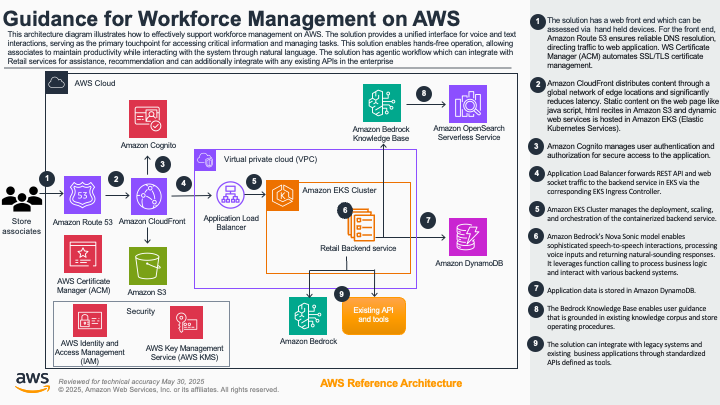
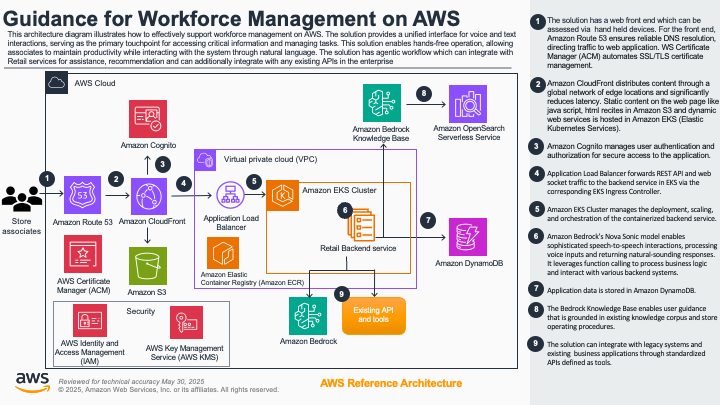
small changes in readme and arch diagram

Changed region(s): [[0.275, 0.563, 0.4278, 0.7111]]

diff --git a/README.md b/README.md
@@ -56,7 +56,7 @@ The architecture is organized into several logical stacks:
 
 ### Cost
 
-You are responsible for the cost of the AWS services used while running this Guidance. As of May 2025, the cost for running this Guidance with the default settings in the AWS Region US East 1 (N. Virginia) is approximately $<n.nn> per month for processing ( <nnnnn> records ).
+You are responsible for the cost of the AWS services used while running this Guidance. As of May 2025, the cost for running this Guidance with the default settings in the AWS Region US East 1 (N. Virginia) is approximately $529.63 per month.
 
 We recommend creating a [Budget](https://docs.aws.amazon.com/cost-management/latest/userguide/budgets-managing-costs.html) through [AWS Cost Explorer](https://aws.amazon.com/aws-cost-management/aws-cost-explorer/) to help manage costs. Prices are subject to change. For full details, refer to the pricing webpage for each AWS service used in this Guidance.
 
@@ -86,8 +86,8 @@ The following table provides a sample cost breakdown for deploying this Guidance
 ### AWS account requirements
 
 Before deploying this solution, you must have the following set up in your AWS account:
-- A public SSL/TLS certificate from AWS Certificate Manager (ACM)
-- A DNS domain or subdomain configured in Route 53 or your DNS provider
+- A public SSL/TLS certificate from AWS Certificate Manager (ACM) [documentation on how to create public certificate](https://aws.amazon.com/certificate-manager/getting-started/)
+- A DNS domain or subdomain configured in Route 53 or your DNS provider [documentation on how to create a domain](https://docs.aws.amazon.com/Route53/latest/DeveloperGuide/dns-configuring.html)
 
 
 ### AWS CDK bootstrap
@@ -162,6 +162,8 @@ Go to the [Amazon Bedrock console](https://us-east-1.console.aws.amazon.com/bedr
 All Amazon models.
 
 ![Amazon Bedrock Model Access](assets/images/0_model_access.png)
+
+If you do not see Nova Sonic, please ensure you are in the us-east-1 region.
 
 Click on the Save changes button and it may take several minutes to save the changes. This also brings you back to the Model access page. Models will show as Access granted on the Model access page under the Access status column, if access is granted.
 
